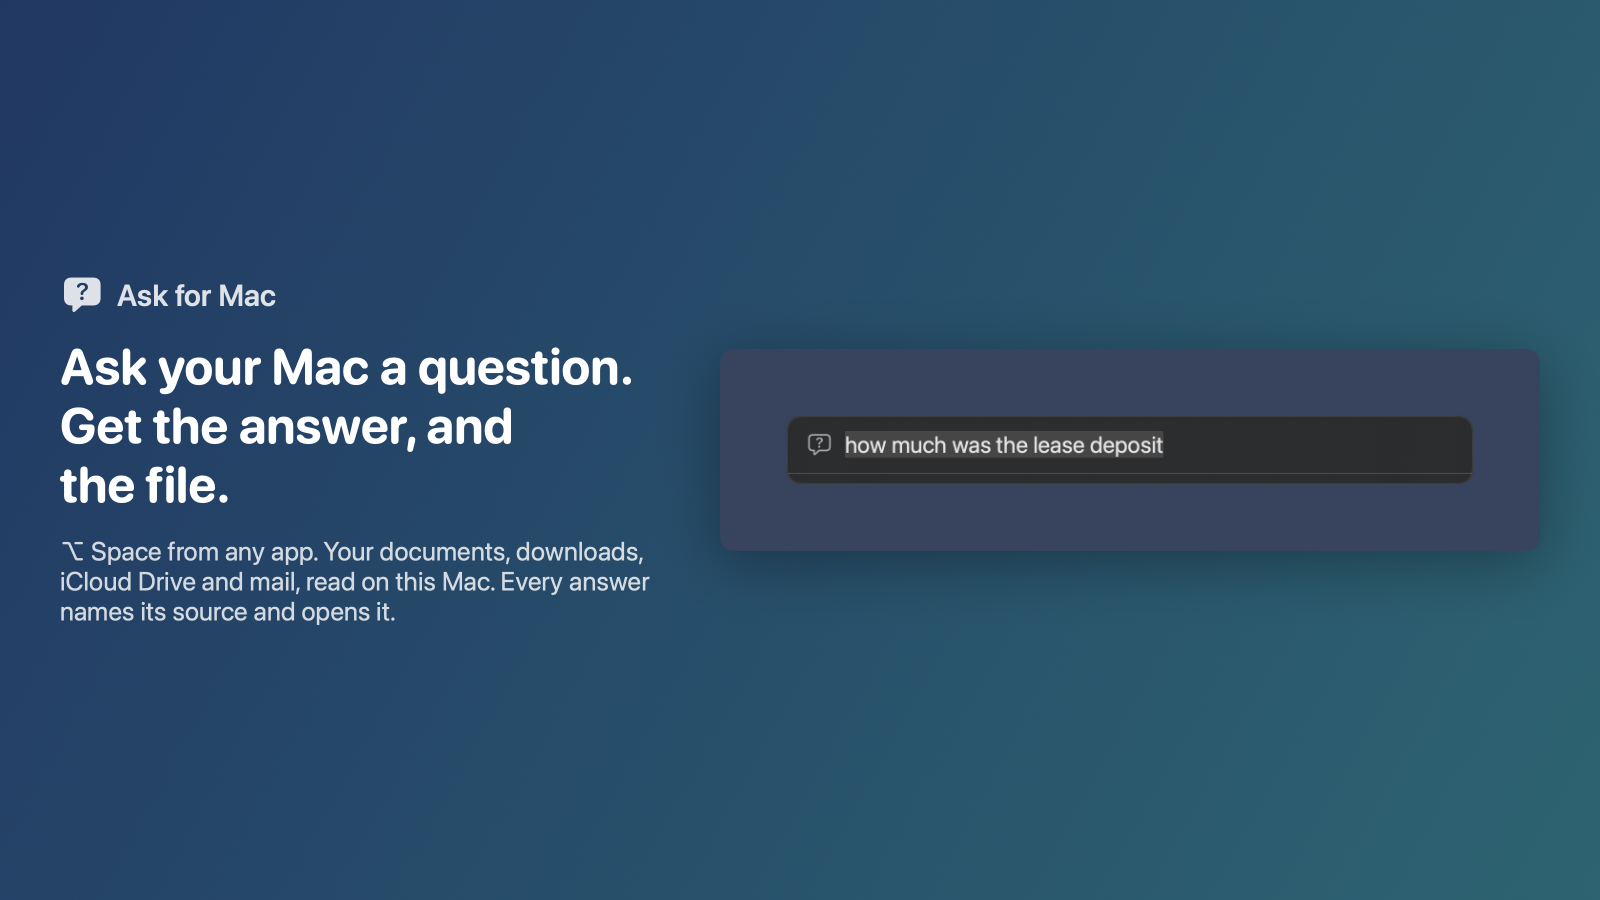
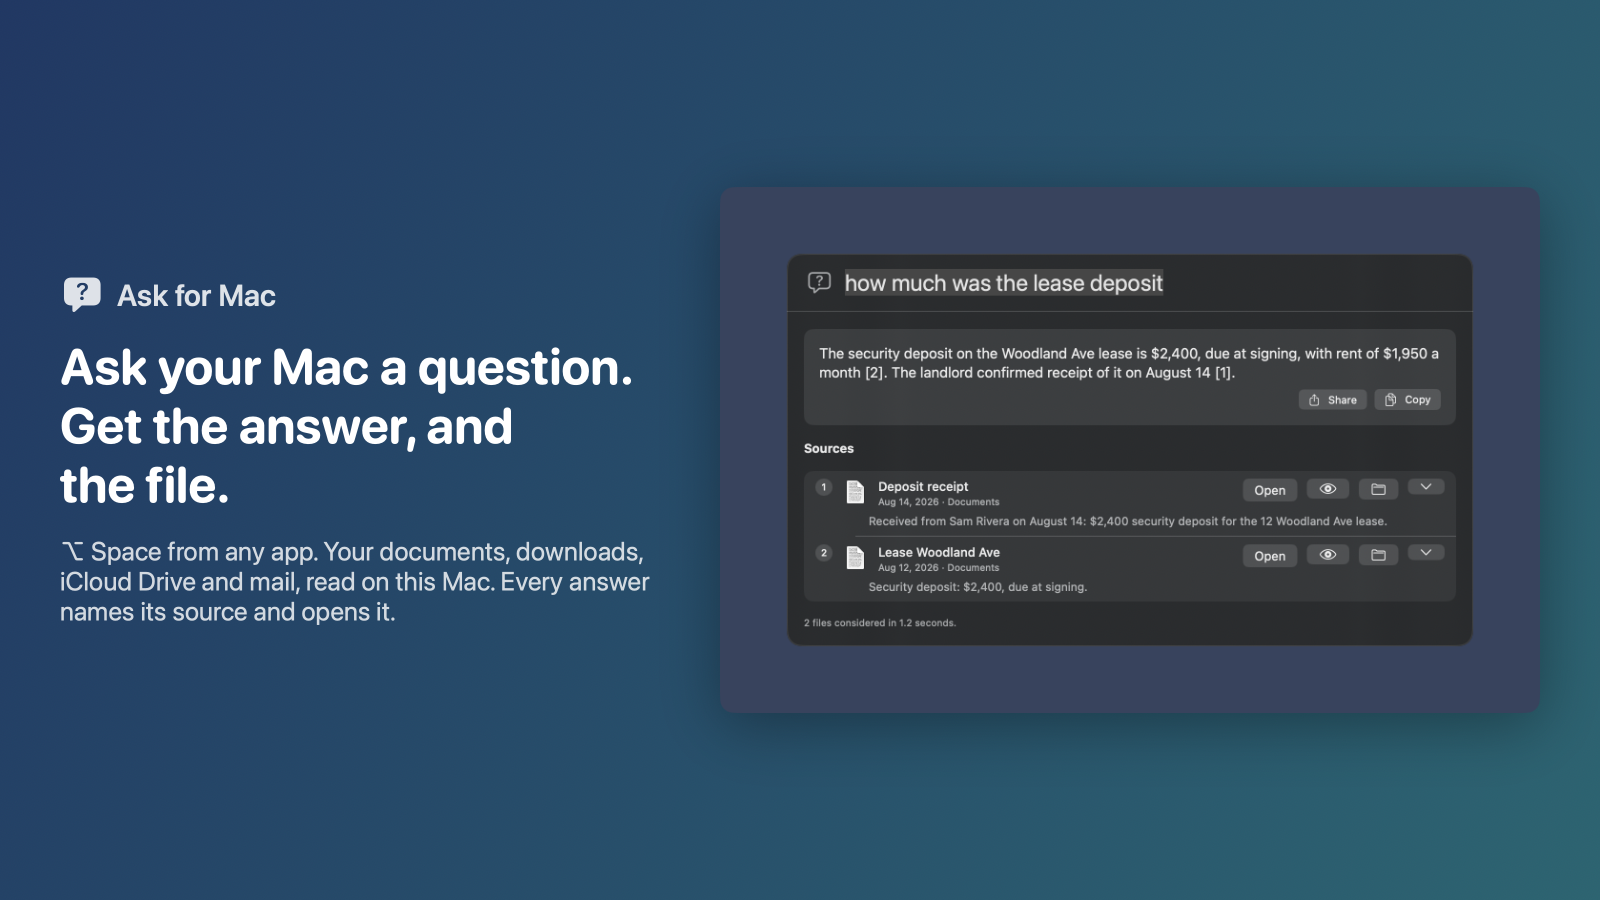
0.8.0: quick panel on option-space, sources before the answer, suggestions from recent files, share, recall

Changed region(s): [[0.4688, 0.28, 0.9688, 0.8089]]

diff --git a/Sources/AskMac/Screenshots.swift b/Sources/AskMac/Screenshots.swift
@@ -39,7 +39,7 @@ enum Screenshots {
                 w.title = "Ask for Mac"; w.contentView = NSHostingView(rootView: MainView().environmentObject(model).frame(width: 860, height: 600)); w.center(); w.makeKeyAndOrderFront(nil)
                 settle(); written.append(try capture(w, to: dir.appendingPathComponent("\(name)\(suffix).png"))); w.orderOut(nil)
                 // The quick panel, floating over a neutral backdrop so its material shows.
-                let panelHost = NSHostingView(rootView: PanelView().environmentObject(model).frame(width: 720)); panelHost.sizingOptions = []
+                let panelHost = NSHostingView(rootView: PanelView().environmentObject(model).frame(width: 720)); panelHost.sizingOptions = [.intrinsicContentSize]
                 let ph = min(max(panelHost.fittingSize.height, 72), 640)
                 let back = NSWindow(contentRect: NSRect(x: 0, y: 0, width: 860, height: ph + 140), styleMask: [.borderless], backing: .buffered, defer: false)
                 back.backgroundColor = appearance == .darkAqua ? NSColor(calibratedRed: 0.16, green: 0.20, blue: 0.30, alpha: 1) : NSColor(calibratedRed: 0.80, green: 0.85, blue: 0.92, alpha: 1); back.center(); back.orderFront(nil)

diff --git a/Sources/AskMac/Panel.swift b/Sources/AskMac/Panel.swift
@@ -58,7 +58,7 @@ final class PanelController {
         p.isMovableByWindowBackground = true; p.becomesKeyOnlyIfNeeded = false
         p.isOpaque = false; p.backgroundColor = .clear; p.hasShadow = true
         let hv = NSHostingView(rootView: AnyView(PanelView().environmentObject(AskModel.shared).frame(width: 720)))
-        hv.sizingOptions = []
+        hv.sizingOptions = [.intrinsicContentSize]   // measure, but never resize the window on its own
         p.contentView = hv; host = hv
         p.isReleasedWhenClosed = false
         panel = p
